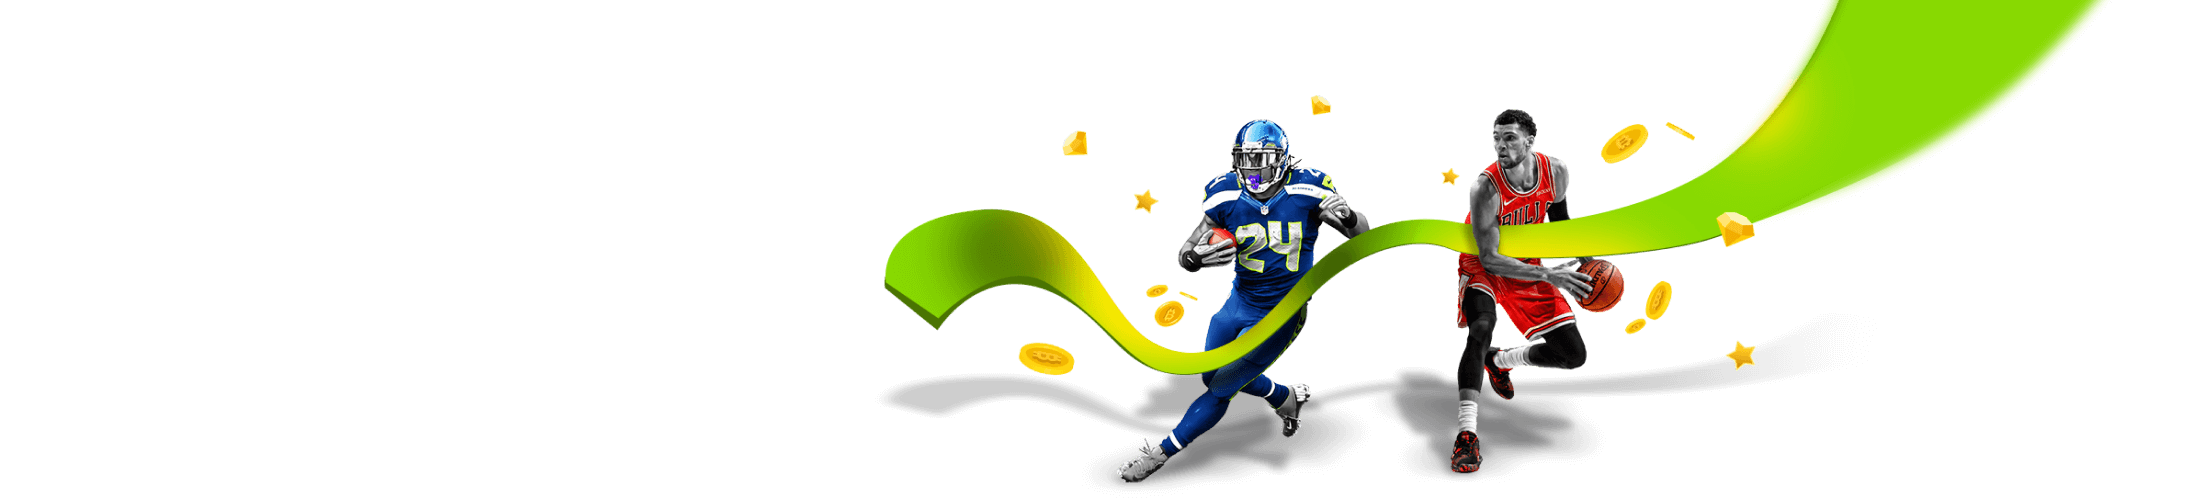
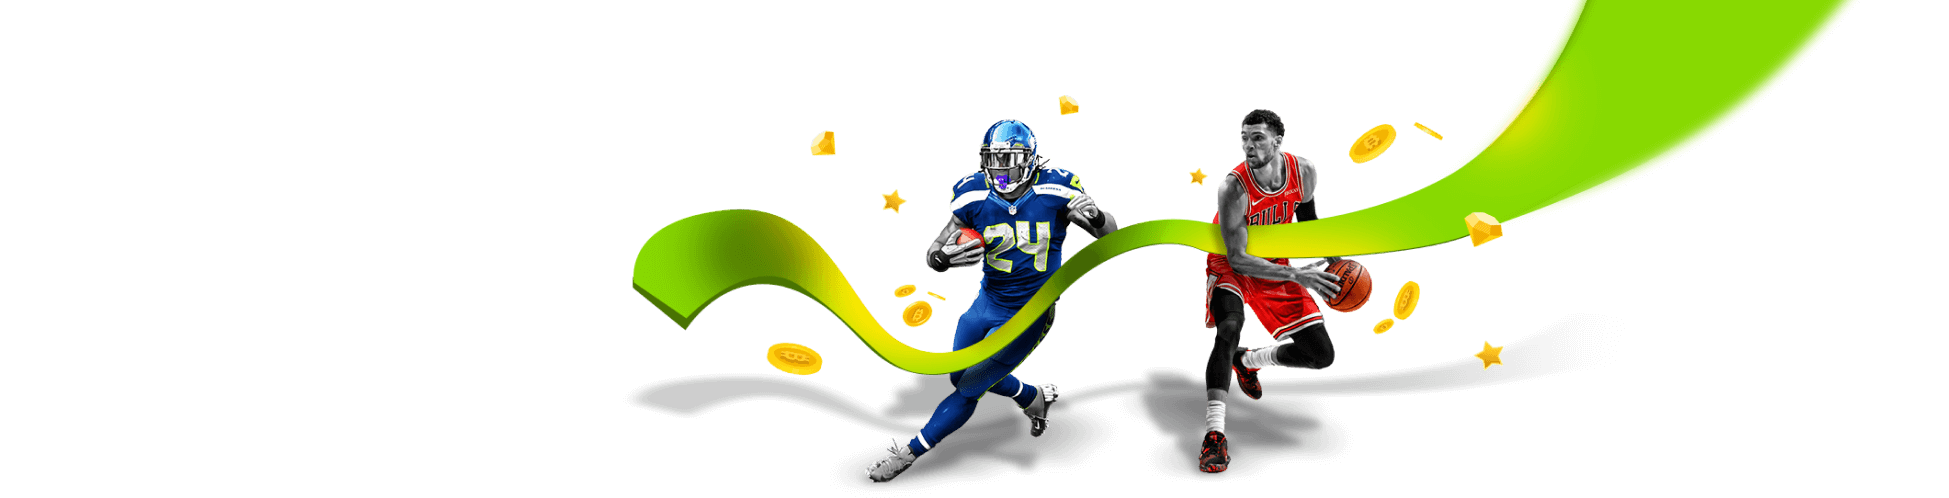
fix

Changed region(s): [[0.3079, 0.0, 0.9543, 0.994], [0.4002, 0.2711, 0.431, 0.3313]]

diff --git a/src/sass/layouts/_hero.scss b/src/sass/layouts/_hero.scss
@@ -3,9 +3,10 @@
 //    min-height: 100%;
 // }
 
-// .parallax {
-// 	min-height: 100vh;
-// }
+.parallax {
+   position: relative;
+   top: -395px;
+}
 
 // .parallax__body {
 //    position: absolute;
@@ -18,22 +19,22 @@
 //    }
 // }
 
-// .parallax__images {
-//    position: absolute;
-//    width: 120%;
-//    height: 120%;
-//    top: -10%;
-//    left: -10%;
-//    z-index: 1;
-// }
+.parallax__images {
+   position: absolute;
+   width: 120%;
+   height: 120%;
+   top: -10%;
+   left: -10%;
+   z-index: 1;
+}
 
-// .images-parallax__item {
-//    position: absolute;
-//    width: 100%;
-//    height: 100%;
-//    top: 0;
-//    left: 0;
-// }
+.images-parallax__item {
+   position: absolute;
+   width: 100%;
+   height: 100%;
+   top: 0;
+   left: 0;
+}
 
 .images-parallax__player1,
 .images-parallax__players2,
@@ -61,9 +62,9 @@
    }
 
    @include desktop {
-      top: -98px;
+      top: -116px;
       max-width: 1689px;
-      height: 582px;
+      height: 562px;
       background-image: url(../images/hero/bg-img-desk.jpg);
       @include retina {
          background-image: url(../images/hero/bg-img-desk-2x.jpg);
@@ -73,7 +74,7 @@
 
 .images-parallax__player1 {
    position: relative;
-   top: -735px;
+   top: -340px;
    left: -6px;
    max-width: 215px;
    height: 393px;
@@ -89,8 +90,8 @@
    }
 
    @include desktop {
-      top: -1104px;
-      left: 277px;
+      top: -704px;
+      left: 248px;
       max-width: 335px;
       height: 481px;
    }
@@ -98,7 +99,7 @@
 
 .images-parallax__players2 {
    position: relative;
-   top: -396px;
+   top: -2px;
    max-width: 1137px;
    height: 393px;
    margin-left: auto;
@@ -112,7 +113,8 @@
    }
 
    @include desktop {
-      top: -685px;
+      top: -289px;
+      left: 112px;
       max-width: 2201px;
       height: 498px;
       background-image: url(../images/hero/players2-desk.png);
@@ -125,11 +127,11 @@
 .images-parallax__coins {
    @include desktop {
       position: relative;
-      top: -1693px;
-      left: 5px;
+      top: -1310px;
+      left: -5px;
       z-index: 1;
 
-      max-height: 464px;
+      height: 464px;
       max-width: 2201px;
       margin-left: auto;
       margin-right: auto;

diff --git a/src/partials/hero.html b/src/partials/hero.html
@@ -2,23 +2,23 @@
    <h1 class="visually-hidden">BC Game</h1>
 
    <div class="images-parallax__bg-img"></div>
-   <div class="wrapper">
+   <!-- <div class="wrapper"> -->
       <div class="parallax">
-         <div class="parallax__body">
-            <div class="parallax__images images-parallax">
-               <div class="images-parallax__item">
+         <!-- <div class="parallax__body"> -->
+            <!-- <div class="parallax__images images-parallax"> -->
+               <!-- <div class="images-parallax__item"> -->
                   <div class="images-parallax__players2"></div>
-               </div>
-               <div class="images-parallax__item">
+               <!-- </div> -->
+               <!-- <div class="images-parallax__item"> -->
                   <div class="images-parallax__player1"></div>
-               </div>
-               <div class="images-parallax__item">
+               <!-- </div> -->
+               <!-- <div class="images-parallax__item"> -->
                   <div class="images-parallax__coins"></div>
-               </div>
-            </div>
+               <!-- </div> -->
+            <!-- </div> -->
          </div>
-      </div>
-   </div>
+      <!-- </div>
+   </div> -->
 
    <div class="container">
       <div class="hero__info">

diff --git a/src/sass/layouts/_hero-info.scss b/src/sass/layouts/_hero-info.scss
@@ -11,7 +11,7 @@
    @include desktop {
       width: 540px;
       height: 298px;
-      margin-top: -1512px;
+      margin-top: -1980px;
       margin-left: -13px;
    }
 }
